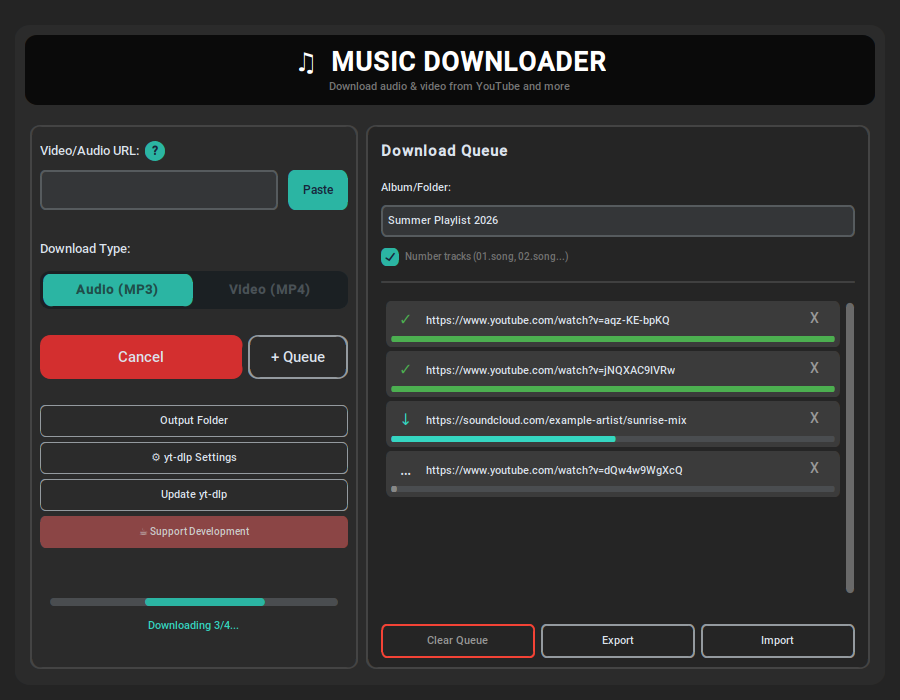
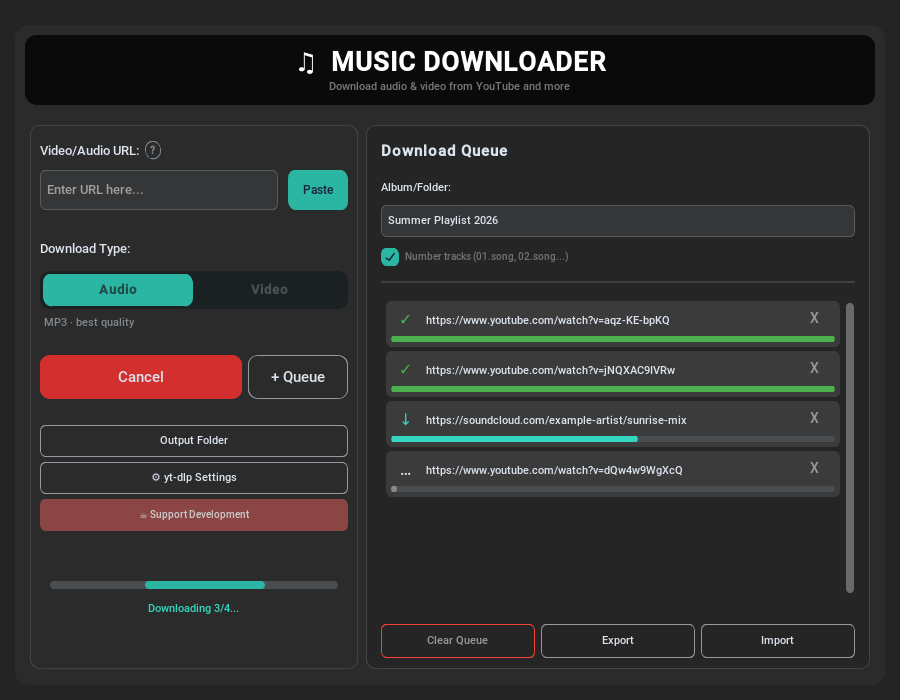
Changelog for 1.1.0, new screenshots, "Saved to" path with ~
- CHANGELOG.md: 1.1.0 entry (Unreleased) covering the Flatpak package, the
  new yt-dlp Settings, album numbering, skipping songs already saved,
  song-only links and the UI changes.
- Metainfo: 1.1.0 release note; second screenshot (yt-dlp Settings).
- screenshot.png: retaken from the Flatpak with the new look;
  screenshot-settings.png: yt-dlp Settings, Basic tab.
- "Saved to:" shows the home folder as ~ (the link still opens the real
  folder).

diff --git a/music_downloader_customtkinter.py b/music_downloader_customtkinter.py
@@ -1614,14 +1614,16 @@ class MusicDownloader:
 
     def show_saved_status(self, before, folder, color, after=""):
         """Show `before + folder + after`; only `folder` is clickable (underlined on hover) and opens it."""
-        text = before + folder + after
+        home = os.path.expanduser("~")
+        shown = "~" + folder[len(home):] if folder == home or folder.startswith(home + "/") else folder
+        text = before + shown + after
         self._status_label_configure(text=text, text_color=color)  # keep label text in sync (cget / tests)
         self._status_link_dir, self._status_link_text = folder, text
         st = self.status_text
         st.configure(state="normal")
         st.delete("1.0", "end")
         st.insert("end", before, ("all",))
-        st.insert("end", folder, ("all", "link"))
+        st.insert("end", shown, ("all", "link"))
         st.insert("end", after, ("all",))
         st.configure(state="disabled", fg=color)
         st.tag_configure("link", underline=False)

diff --git a/CHANGELOG.md b/CHANGELOG.md
@@ -4,6 +4,44 @@ All notable changes to MDJ Music Downloader will be documented in this file.
 
 The format is based on [Keep a Changelog](https://keepachangelog.com/en/1.0.0/).
 
+## [1.1.0] - Unreleased
+
+### Added
+- **Flatpak package**, ready for Flathub (app ID `io.github.ngquocvuong.mdj-music-downloader`). It includes yt-dlp, ffmpeg and Node.js (which yt-dlp needs for YouTube), so nothing else has to be installed. In the Flatpak, yt-dlp is updated with the app, so "Update yt-dlp" is hidden.
+- **New yt-dlp Settings window** with two tabs:
+  - **Basic:** choose the audio format (mp3, m4a, opus, flac, wav) and quality, the video quality (best, 4K, 1440p, 1080p, 720p, 480p), add cover art and title/artist tags to files, and use your browser's login (cookies) for age-restricted videos (not in the Flatpak).
+  - **Advanced:** custom yt-dlp options with step-by-step help when the box is empty, a **Check** button that asks yt-dlp whether it accepts them, links to the yt-dlp option list and format guide, and a live preview of the full command the app will run.
+  - Both tabs are used together. When a custom option changes a Basic setting (e.g. `--audio-format flac`), the custom option is used, and that Basic setting is locked with a note saying why.
+  - Save checks the options first, so a typo can't break every download.
+- Under **Download Type**, a small line shows what the selected type saves as, e.g. "MP3 · best quality" or "MP4 · up to 1080p".
+- **Songs already in a folder are not downloaded again**, even after track numbering renamed them. Retrying a playlist only tries the songs that are missing. A song you deleted can be downloaded again. Downloading a song you already have says "Already downloaded". (Each download folder keeps a small hidden record, `.mdj-tracks.json`.)
+- In the Flatpak on older desktops (e.g. Linux Mint 21), **Import** shows the queue files in your Output Folder to pick from, with "Other folder..." for the system file chooser. Their file chooser can't open a chosen folder directly.
+- Lists (the queue, Supported Sites, settings) scroll with the mouse wheel.
+
+### Changed
+- Default download folder is now `~/Music/MDJ Downloads`. If your settings still used the old default (`~/Music/YouTube MP3`), they switch to the new one; folders you chose yourself are kept.
+- A link to a song inside a playlist (`watch?v=...&list=...`, including YouTube Mixes) now downloads **only that song**. Playlist links still download the whole list. Add `--yes-playlist` in Custom arguments to get the old behaviour.
+- The Download Type buttons now just say **Audio** and **Video**.
+- "URL pasted" and "Added to queue" messages show only the first time per session. Notifications are smaller, and only one shows at a time.
+- Quieter **?** (Supported Sites) button: a small grey circle that turns teal under the mouse.
+- Thinner borders on buttons, panels, text fields and checkboxes.
+- The window opens on the monitor under the mouse, also where the `xrandr` program is missing.
+- "Saved to:" shows your home folder as `~` (e.g. `~/Music/MDJ Downloads`), which is shorter and easier to read.
+
+### Fixed
+- **Track numbering in an existing album folder.** New songs now continue after the highest number (`01`, `02` → `03`). Before, numbering restarted at `01` on every run, giving two songs the same number, or replacing a song when the file names matched.
+- Track numbering could rename the wrong file (another song, or the playlist file) when a song was already in the folder.
+- Every song from a playlist link is now numbered, not only the last one.
+- When one video in a playlist is unavailable, the other songs are still numbered and added to the album's playlist file.
+- Downloading a song that is already numbered in the album no longer adds a second copy.
+- The single **Download** button now numbers songs too.
+- The album's `.m3u` playlist file is updated after every download (also single downloads and cancelled queues). It is named after the real folder, so typing "rock" for an existing "Rock" folder no longer makes a second playlist file. Numbered songs come first, in order (99 before 100).
+- Song titles that start with a number, like "99.9 FM", keep their number.
+- An album name with "/" (e.g. "AC/DC") no longer creates sub-folders.
+- Custom arguments: an option and its value on one line (e.g. `--cookies-from-browser firefox`, the example the app itself showed) was rejected by yt-dlp with "no such option". Lines are now split like on the command line, and quotes work. Settings saved by older versions are fixed automatically.
+- The bottom of the yt-dlp Settings window ("Advanced Settings") was cut off on smaller screens.
+- File choosers opened your home folder when the Output Folder didn't exist yet (nothing downloaded). They now start in the nearest folder that exists, e.g. `~/Music`.
+
 ## [1.0.3] - 2026-11-09
 
 ### Added
